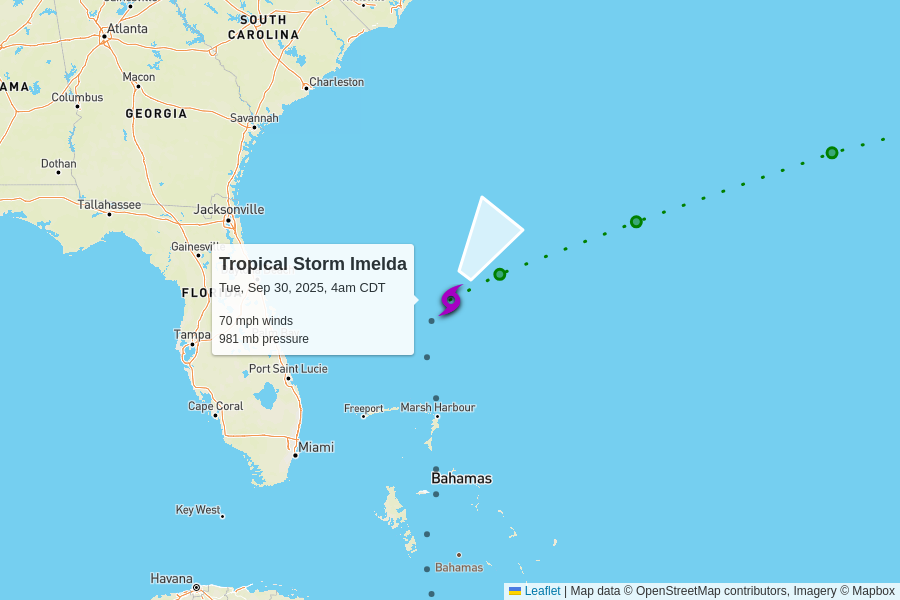
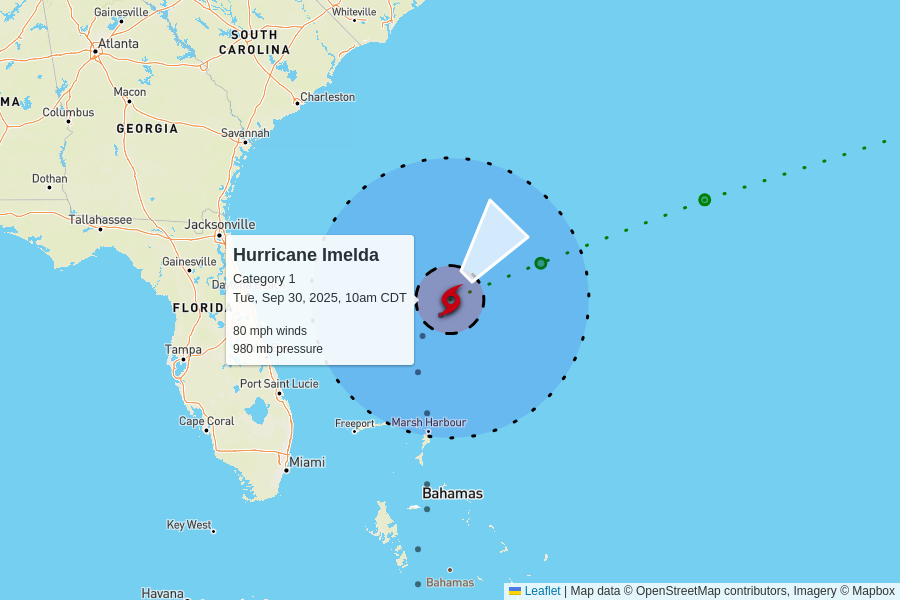
automatic update

diff --git a/docs/index.html b/docs/index.html
@@ -101,10 +101,10 @@
 
     <table>
       <tr>
-        <td colspan="6" class="storm category-2" >
+        <td colspan="6" class="storm category-1" >
           <h2>
-            Hurricane Humberto - Category 2
-            <p class="updated">last updated <span data-time>2025-09-30T09:00:00.000Z</span></p>
+            Hurricane Humberto - Category 1
+            <p class="updated">last updated <span data-time>2025-09-30T15:00:00.000Z</span></p>
           </h2>
         </td>
       </tr>
@@ -119,10 +119,10 @@
       </tr>
       <tr>
         <td class="spacer"></td>
-        <td>100 mph<br>-15 mph since last update</td>
-        <td>972 mb<br>+9 mb since last update</td>
+        <td>80 mph<br>-20 mph since last update</td>
+        <td>979 mb<br>+7 mb since last update</td>
         <td>
-          17 mph to the north-northwest
+          18 mph to the north-northwest
           <br/>
           <span style="display: inline-block; font-size: 1.5em; transform: rotate(340deg);">↑</span>
         </td>
@@ -145,10 +145,10 @@
       
 
       <tr>
-        <td colspan="6" class="storm category-0" >
+        <td colspan="6" class="storm category-1" >
           <h2>
-            Tropical Storm Imelda
-            <p class="updated">last updated <span data-time>2025-09-30T09:00:00.000Z</span></p>
+            Hurricane Imelda - Category 1
+            <p class="updated">last updated <span data-time>2025-09-30T15:00:00.000Z</span></p>
           </h2>
         </td>
       </tr>
@@ -163,12 +163,12 @@
       </tr>
       <tr>
         <td class="spacer"></td>
-        <td>70 mph<br>+5 mph since last update</td>
-        <td>981 mb<br>-6 mb since last update</td>
+        <td>80 mph<br>+10 mph since last update</td>
+        <td>980 mb<br>-1 mb since last update</td>
         <td>
           7 mph to the northeast
           <br/>
-          <span style="display: inline-block; font-size: 1.5em; transform: rotate(35deg);">↑</span>
+          <span style="display: inline-block; font-size: 1.5em; transform: rotate(40deg);">↑</span>
         </td>
         <td><a href="https://raw.githubusercontent.com/mgwalker/atlantic-hurricanes/main/data/csv/AL092025.csv">AL092025.csv</a></td>
         <td><a href="https://www.nhc.noaa.gov/archive/2025/IMELDA.shtml?">NHC advisories</a></td>
